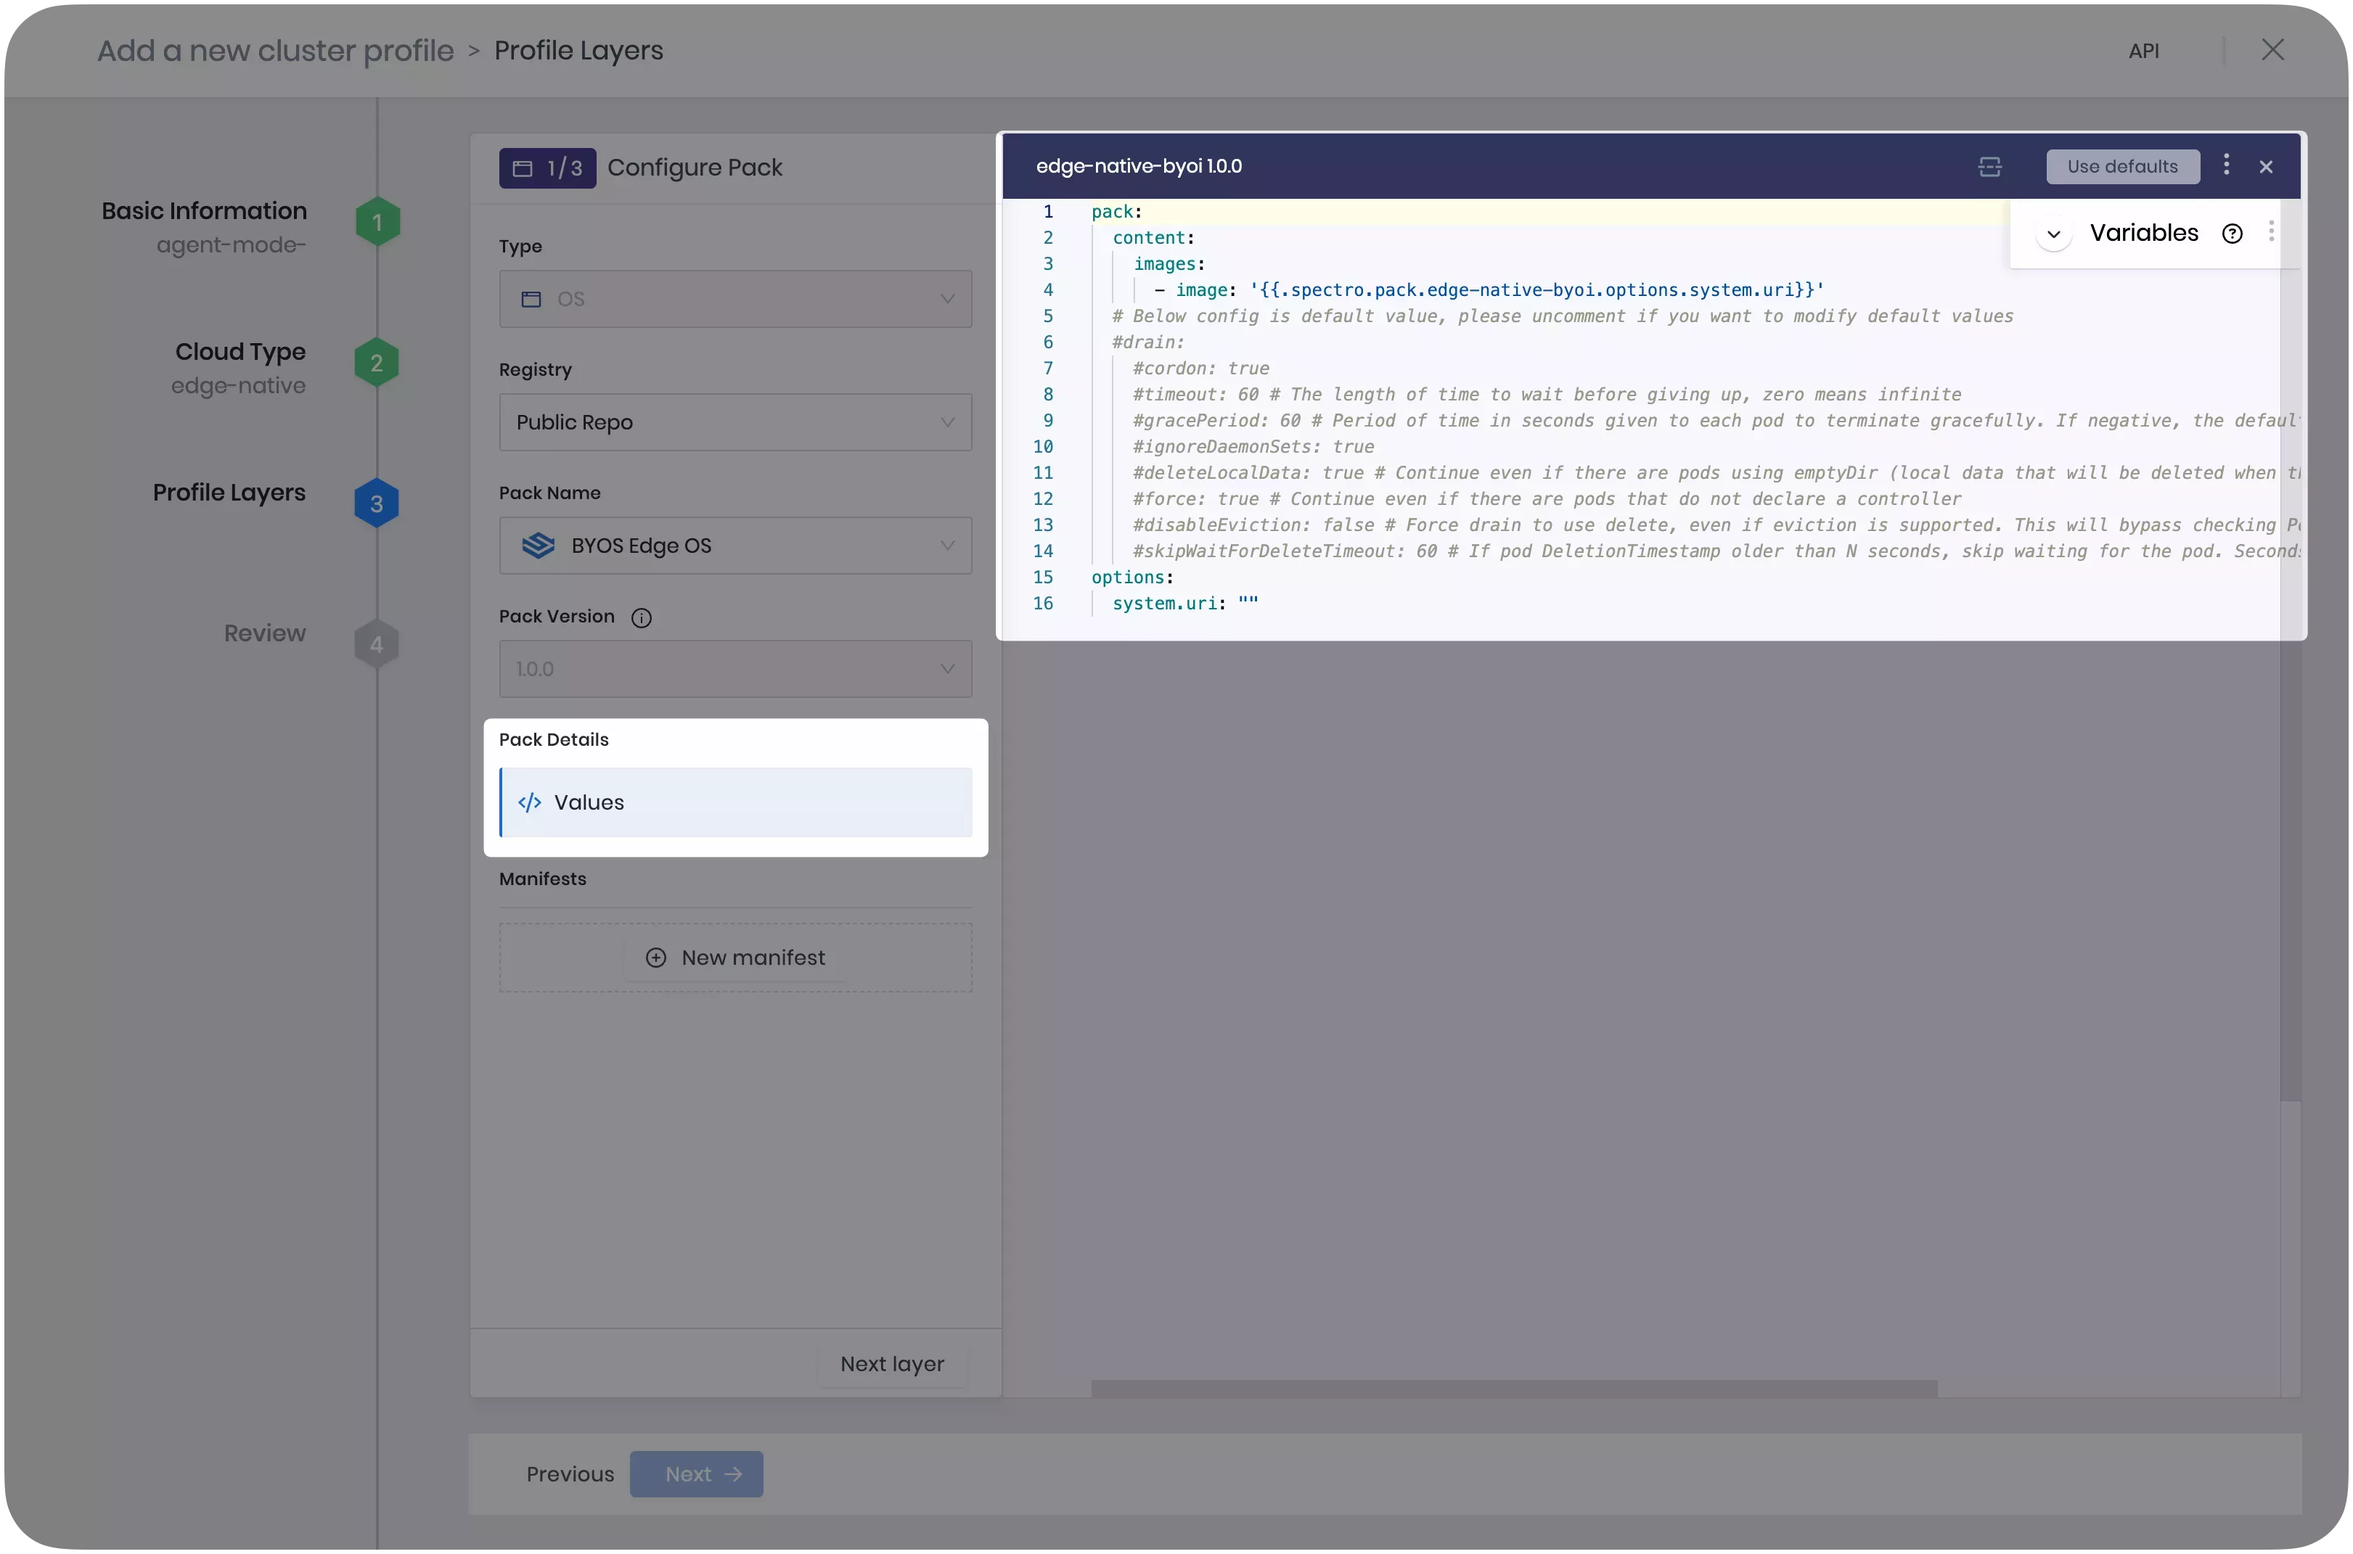
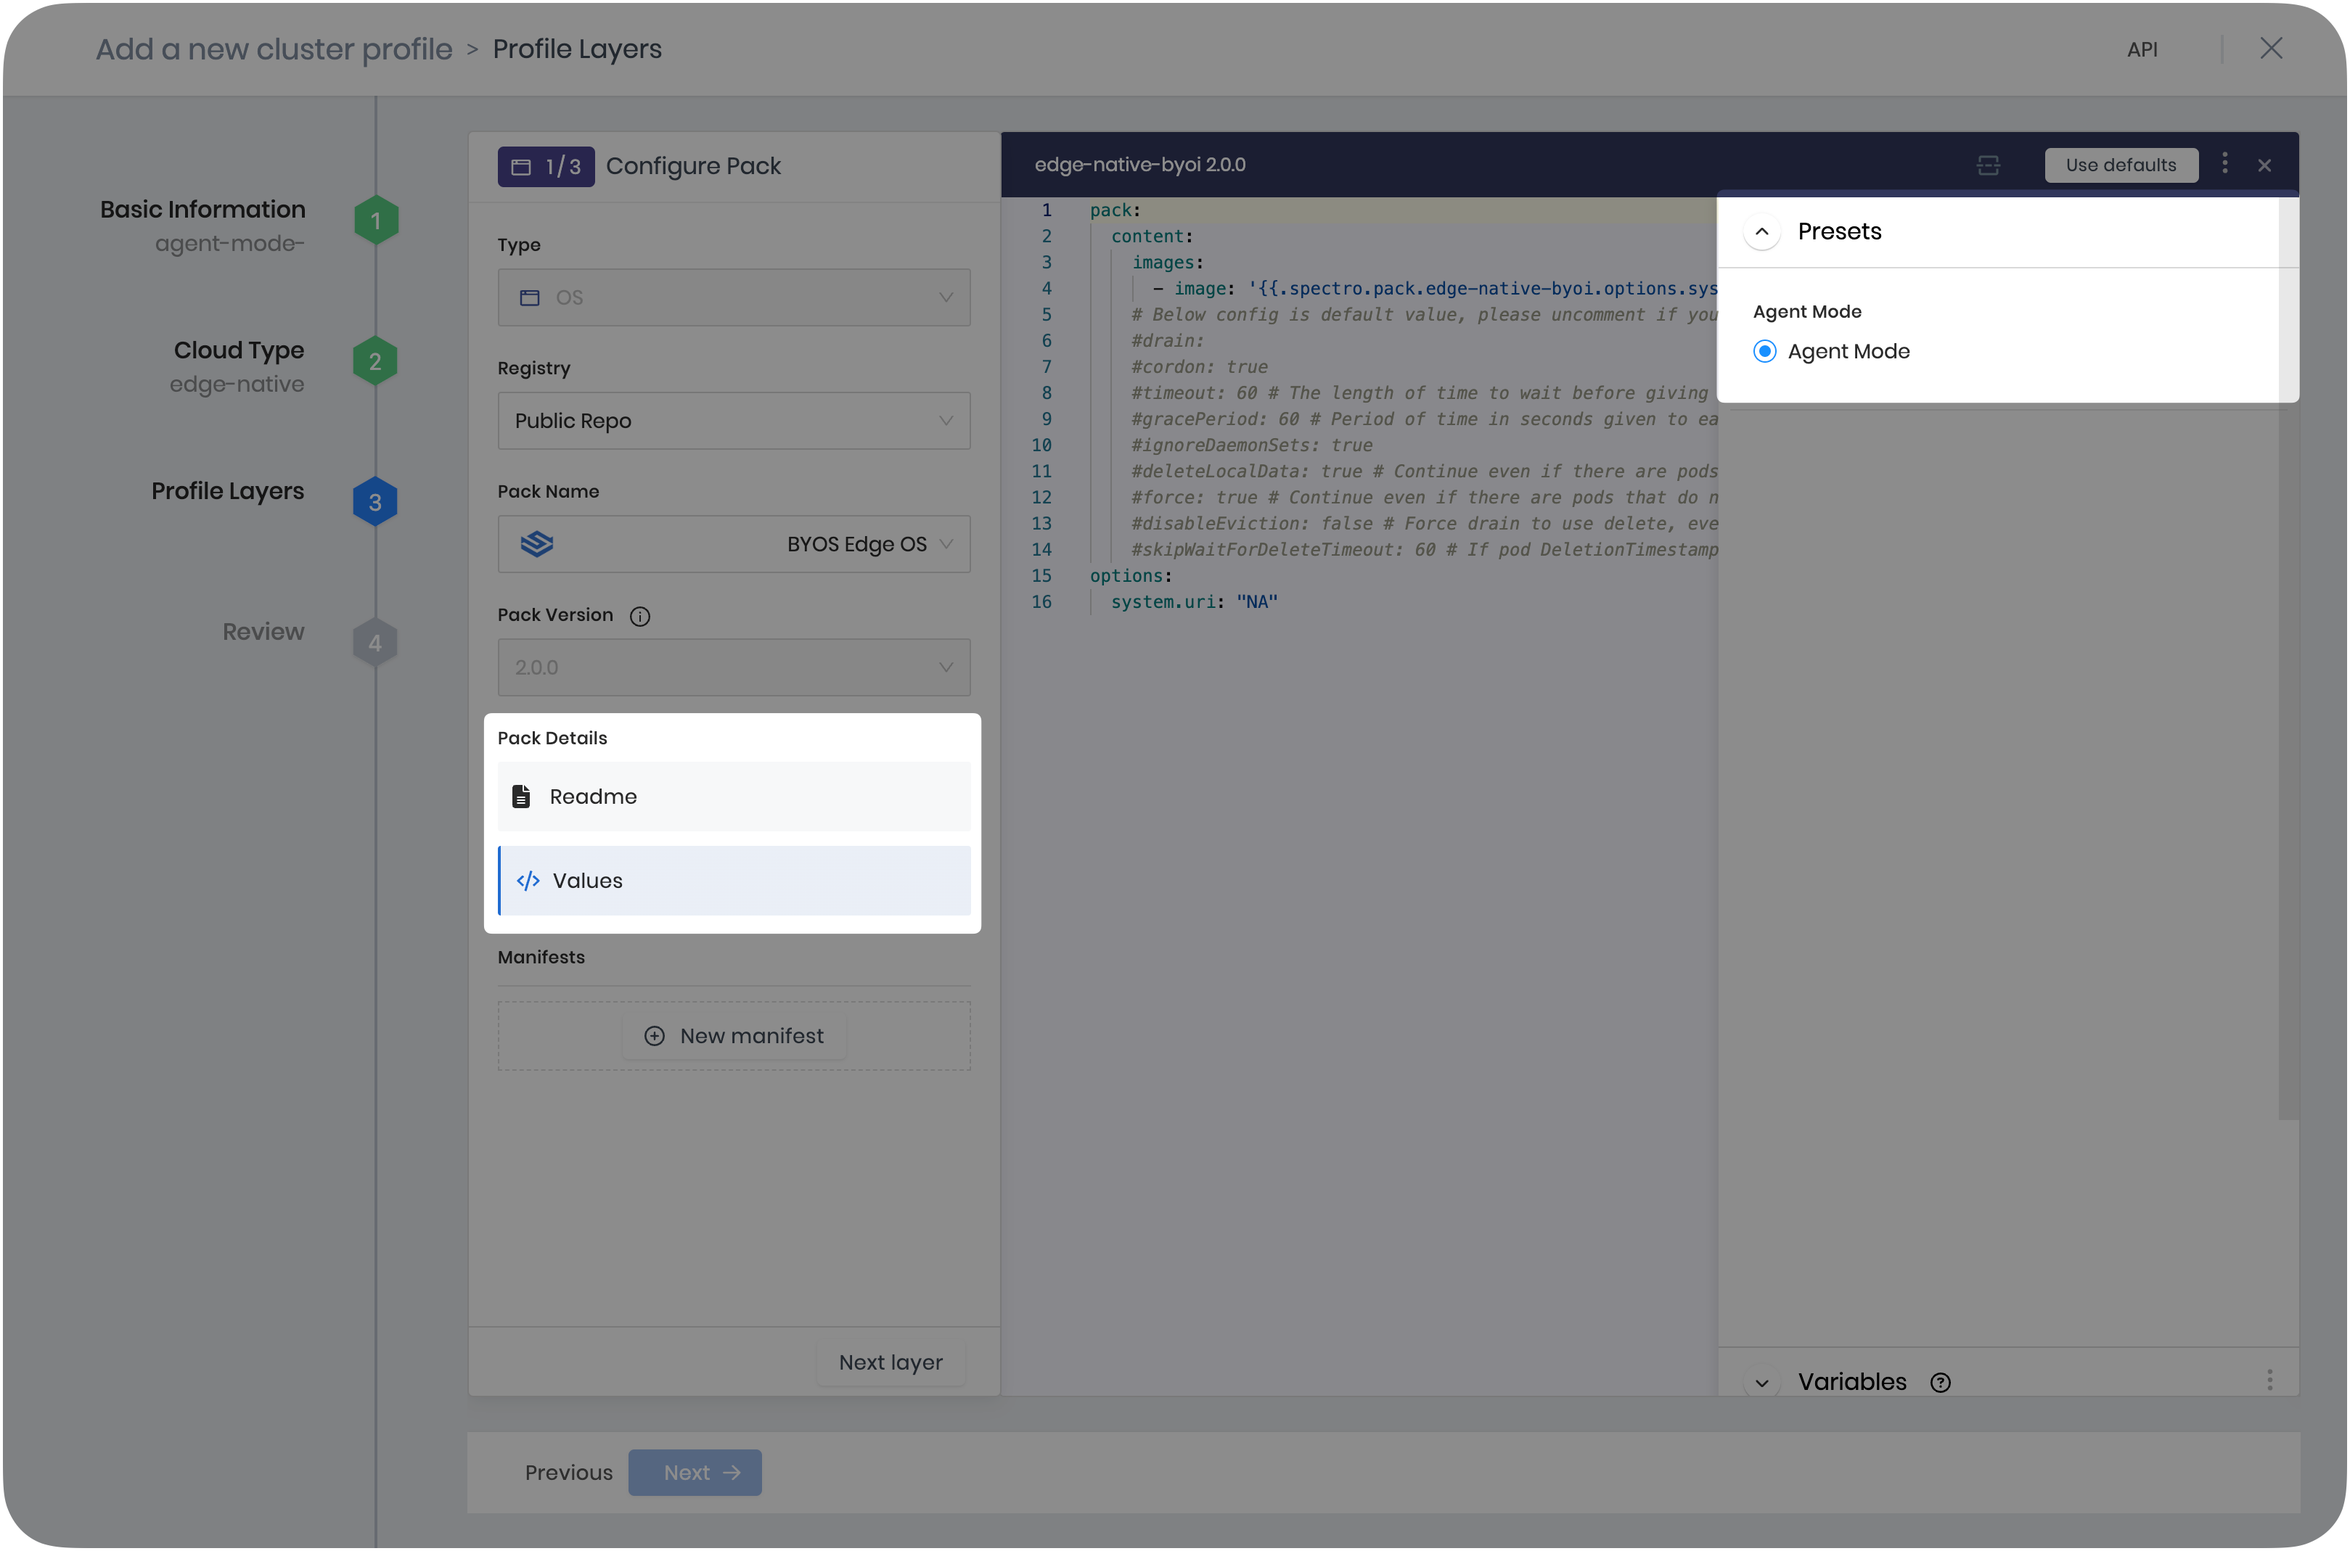
docs: update BYOS pack

diff --git a/docs/docs-content/deployment-modes/agent-mode/install-agent-host.md b/docs/docs-content/deployment-modes/agent-mode/install-agent-host.md
@@ -138,7 +138,7 @@ Palette. You will then create a cluster profile and use the registered host to d
 4. Export the path to your user data file.
 
    ```shell
-   export USER_DATA=./user-data
+   export USERDATA=./user-data
    ```
 
 5. Download the Palette agent installation script. Access the [Agent Mode](https://github.com/spectrocloud/agent-mode)
@@ -187,45 +187,17 @@ Palette. You will then create a cluster profile and use the registered host to d
 14. Select **Edge Native** as the **Cloud Type** and click **Next**.
 
 15. The **Profile Layers** section specifies the packs that compose the profile. Add the **BYOS Edge OS** pack version
-    **1.0.0** to the OS layer.
+    **2.0.0** to the OS layer.
 
-16. Click **Values** under **Pack Details** to edit the pack's manifest.
-
-    <!-- Steps 16 and 17 use the old version of the BYOS pack. The steps will be updated once the new version of the pack is available. -->
+16. Click **Values** under **Pack Details**, then click on **Presets** on the right-hand side. Select **Agent Mode**.
 
     ![View of the cluster profile creation page with the BYOS pack.](/deployment-modes_agent-mode_byos-pack.webp)
 
-17. Update the `system.uri` parameter with the desired Kubernetes image.
+17. Click **Next Layer** to continue.
 
-    Additionally, include the `stylusPackage` line following the example below.
+18. Complete the cluster profile creation process by filling out the remaining layers.
 
-    ```yaml {16,18}
-    pack:
-      content:
-        images:
-          - image: "{{.spectro.pack.edge-native-byoi.options.system.uri}}"
-      # Below config is default value, please uncomment if you want to modify default values
-      #drain:
-      #cordon: true
-      #timeout: 60 # The length of time to wait before giving up, zero means infinite
-      #gracePeriod: 60 # Period of time in seconds given to each pod to terminate gracefully. If negative, the default value specified in the pod will be used
-      #ignoreDaemonSets: true
-      #deleteLocalData: true # Continue even if there are pods using emptyDir (local data that will be deleted when the node is drained)
-      #force: true # Continue even if there are pods that do not declare a controller
-      #disableEviction: false # Force drain to use delete, even if eviction is supported. This will bypass checking PodDisruptionBudgets, use with caution
-      #skipWaitForDeleteTimeout: 60 # If pod DeletionTimestamp older than N seconds, skip waiting for the pod. Seconds must be greater than 0 to skip.
-    options:
-      system.uri: "gcr.io/spectro-dev-public/stylus/k8s:k3s-1.29.2"
-
-    stylusPackage: container://gcr.io/spectro-dev-public/stylus-edge-standard:v0.0.1
-    ```
-
-18. Click **Next Layer** to continue.
-
-19. Complete the cluster profile creation process by filling out the remaining layers. Ensure that the Kubernetes layer
-    matches the version and distribution specified in step **7** of this guide.
-
-20. Follow the steps in the [Create Cluster Definition](../../clusters/edge/site-deployment/model-profile.md) guide to
+19. Follow the steps in the [Create Cluster Definition](../../clusters/edge/site-deployment/model-profile.md) guide to
     deploy a cluster using your registered host as a cluster node.
 
 ## Validate
